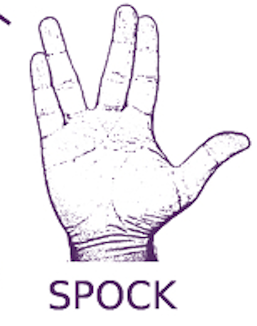
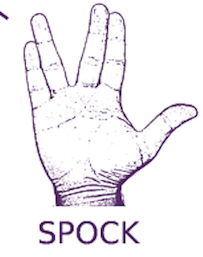
Update the size of player and computer images

diff --git a/assets/css/style.css b/assets/css/style.css
@@ -83,8 +83,8 @@ header h2 {
 }
 
 #player-image {
-    width: 100%;
-    height: 100%;
+    width: 75%;
+    height: 75%;
 }
 
 .computer {
@@ -93,8 +93,8 @@ header h2 {
 }
 
 #computer-image {
-    width: 100%;
-    height: 100%;
+    width: 75%;
+    height: 75%;
     
 }
 
